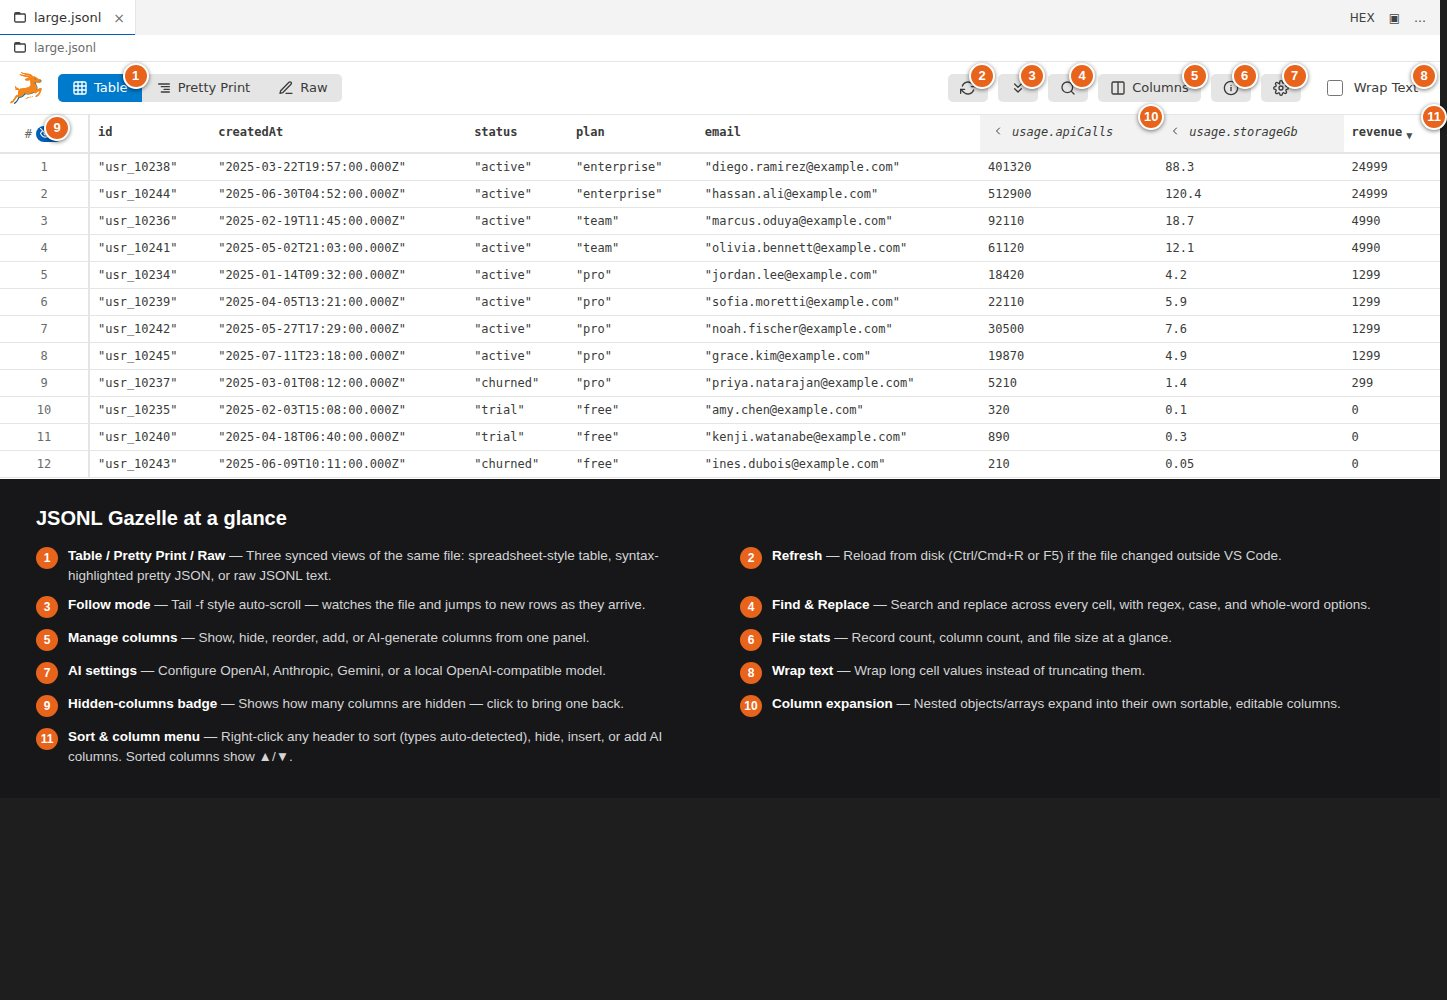
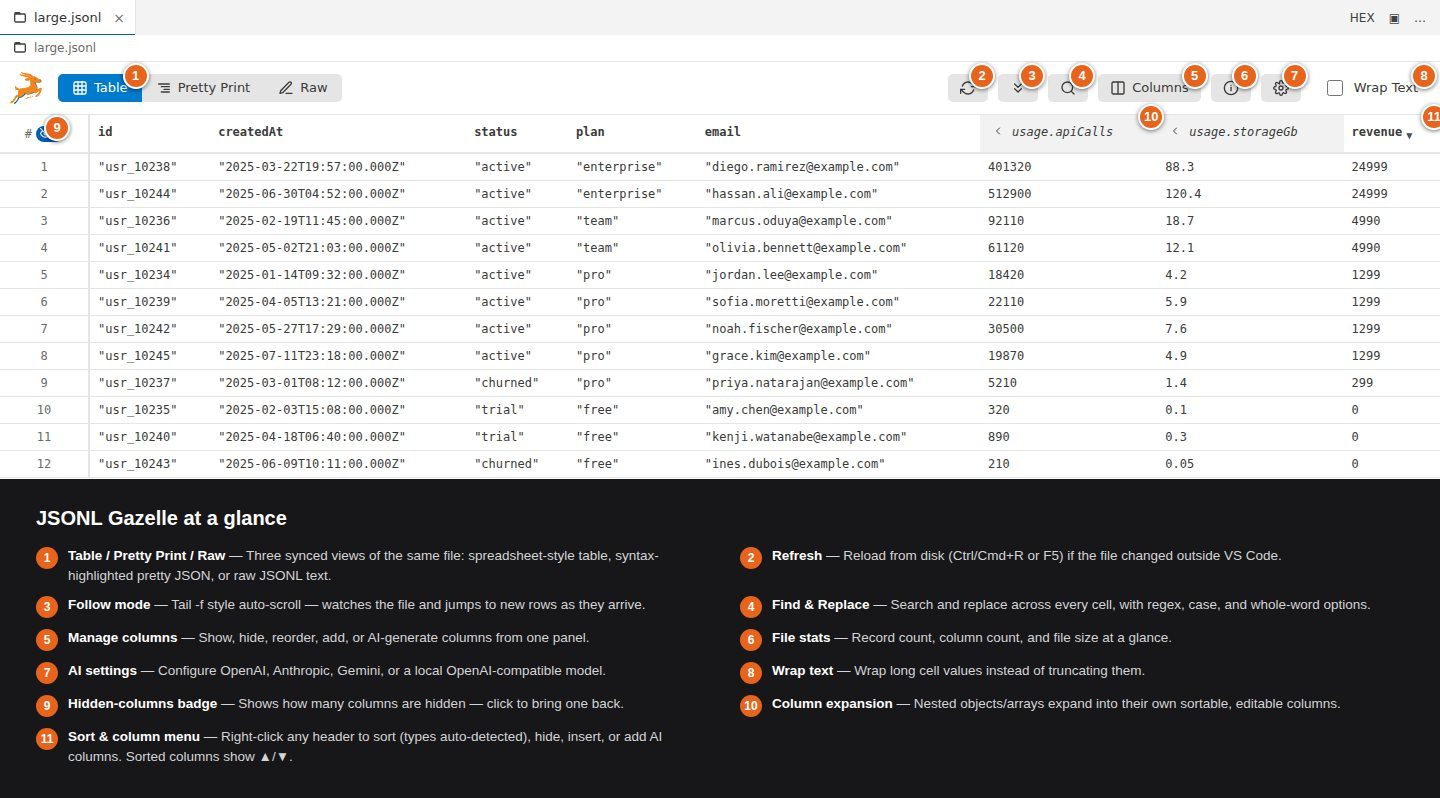
Remove em dashes from tabs image, fix feature-map dead space, reorder README
Feature map was using a fullPage screenshot against a fixed 1000px
viewport, so it always captured the full viewport height regardless of
actual content height - now clips to the content wrapper's real bounding
box instead.

jsonl-gazelle-tabs.jpg's callout copy used em dashes; replaced with plain
punctuation.

README now shows the feature map first, with the three-views close-up
below it.

Changed region(s): [[0.0, 0.0, 1.0, 0.9624], [0.5, 0.7519, 0.9375, 0.9023]]

diff --git a/tools/screenshots/annotate-compose.js b/tools/screenshots/annotate-compose.js
@@ -42,6 +42,7 @@ async function main() {
 <style>
   * { box-sizing: border-box; }
   html, body { margin: 0; padding: 0; background: #1e1e1e; font-family: -apple-system, BlinkMacSystemFont, 'Segoe UI', Helvetica, Arial, sans-serif; }
+  .wrap { width: 1440px; }
   .frame { position: relative; width: 1440px; }
   .frame img { display: block; width: 1440px; }
   .pin {
@@ -69,13 +70,15 @@ async function main() {
 </style>
 </head>
 <body>
-  <div class="frame">
-    <img src="${imgUri}">
-    ${pinsHtml}
-  </div>
-  <div class="legend">
-    <div class="legend-title">JSONL Gazelle at a glance</div>
-    ${legendHtml}
+  <div class="wrap">
+    <div class="frame">
+      <img src="${imgUri}">
+      ${pinsHtml}
+    </div>
+    <div class="legend">
+      <div class="legend-title">JSONL Gazelle at a glance</div>
+      ${legendHtml}
+    </div>
   </div>
 </body>
 </html>`;
@@ -87,7 +90,16 @@ async function main() {
   const p = await browser.newPage({ viewport: { width: 1440, height: 1000 } });
   await p.goto(`file://${htmlPath}`);
   await p.waitForTimeout(150);
-  await p.screenshot({ path: path.join(OUT, 'feature-map.jpg'), fullPage: true, type: 'jpeg', quality: 84 });
+  // Clip to the wrap element's actual box instead of a fullPage screenshot -
+  // fullPage was capturing the full 1000px viewport height regardless of how
+  // tall the content actually was, leaving dead space below the legend.
+  const wrapBox = await p.locator('.wrap').boundingBox();
+  await p.screenshot({
+    path: path.join(OUT, 'feature-map.jpg'),
+    type: 'jpeg',
+    quality: 84,
+    clip: { x: wrapBox.x, y: wrapBox.y, width: wrapBox.width, height: wrapBox.height },
+  });
   await browser.close();
   console.log('Wrote feature-map.jpg');
 }

diff --git a/tools/screenshots/tabs-compose.js b/tools/screenshots/tabs-compose.js
@@ -12,9 +12,9 @@ const OUT = path.join(__dirname, '.generated', 'shots');
 const SCALE = 2;
 
 const items = [
-  { key: 'table', n: 1, label: 'Table', desc: 'Spreadsheet-style grid — sort, hide, edit, and expand nested fields into columns.' },
-  { key: 'json', n: 2, label: 'Pretty Print', desc: 'Syntax-highlighted, indented JSON — one record at a time, easy to scan.' },
-  { key: 'raw', n: 3, label: 'Raw', desc: 'The file exactly as it is on disk — one JSON object per line.' },
+  { key: 'table', n: 1, label: 'Table', desc: 'Spreadsheet-style grid. Sort, hide, edit, and expand nested fields into columns.' },
+  { key: 'json', n: 2, label: 'Pretty Print', desc: 'Syntax-highlighted, indented JSON. One record at a time, easy to scan.' },
+  { key: 'raw', n: 3, label: 'Raw', desc: 'The file exactly as it is on disk. One JSON object per line.' },
 ];
 
 async function main() {
@@ -43,7 +43,7 @@ async function main() {
   }).join('\n');
 
   const legendHtml = items.map(it =>
-    `<div class="legend-item"><span class="legend-num">${it.n}</span><span class="legend-text"><strong>${it.label}</strong> — ${it.desc}</span></div>`
+    `<div class="legend-item"><span class="legend-num">${it.n}</span><span class="legend-text"><strong>${it.label}.</strong> ${it.desc}</span></div>`
   ).join('\n');
 
   const page = `<!doctype html>

diff --git a/README.md b/README.md
@@ -6,9 +6,9 @@
 
 Fast JSONL viewer / editor for VS Code with advanced features including Table View and Pretty Print view. JSONL (JSON Lines, also known as NDJSON — newline-delimited JSON) is increasingly important for machine learning datasets, log analysis, data streaming, and LLM training. Unlike regular JSON, it can be processed line-by-line making it perfect for large datasets. Also works for NDJSON.
 
-![JSONL Gazelle's three views - Table, Pretty Print, and Raw - explained](jsonl-gazelle-tabs.jpg)
-
 ![JSONL Gazelle feature map - Table View with tabs, columns, sorting, hidden columns, and AI features called out](jsonl-gazelle-feature-map.jpg)
+
+![JSONL Gazelle's three views - Table, Pretty Print, and Raw - explained](jsonl-gazelle-tabs.jpg)
 
 ![JSONL Gazelle Screenshot - Light Theme - Table View](jsonl-gazelle-screenshot.jpg)
 
